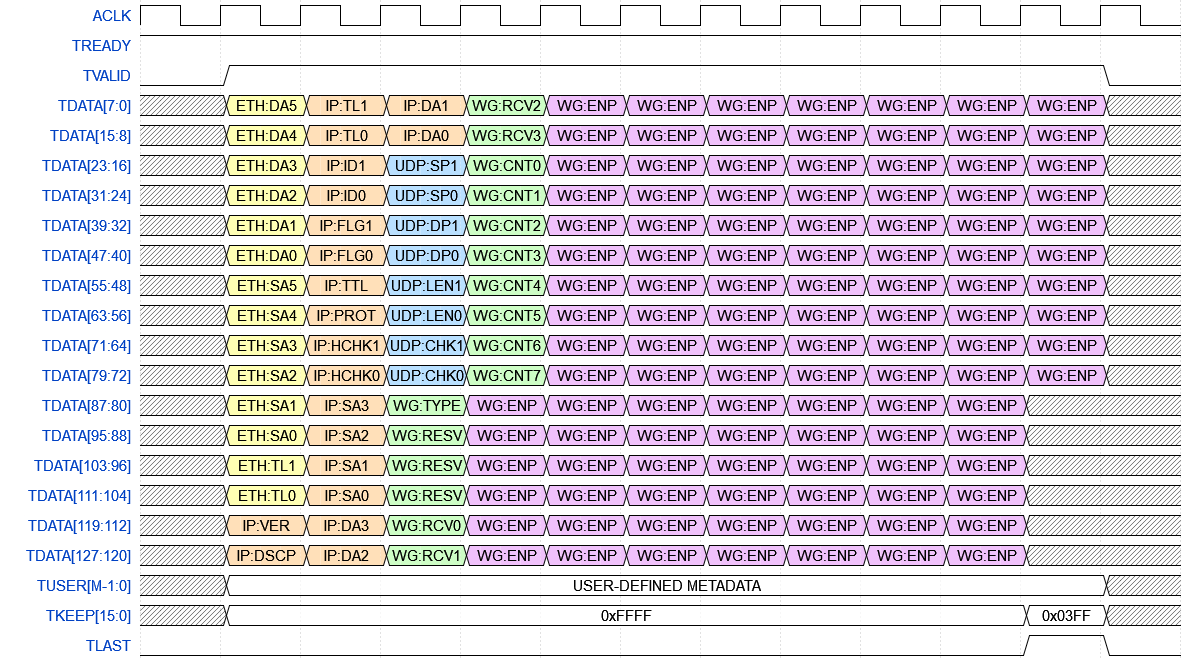
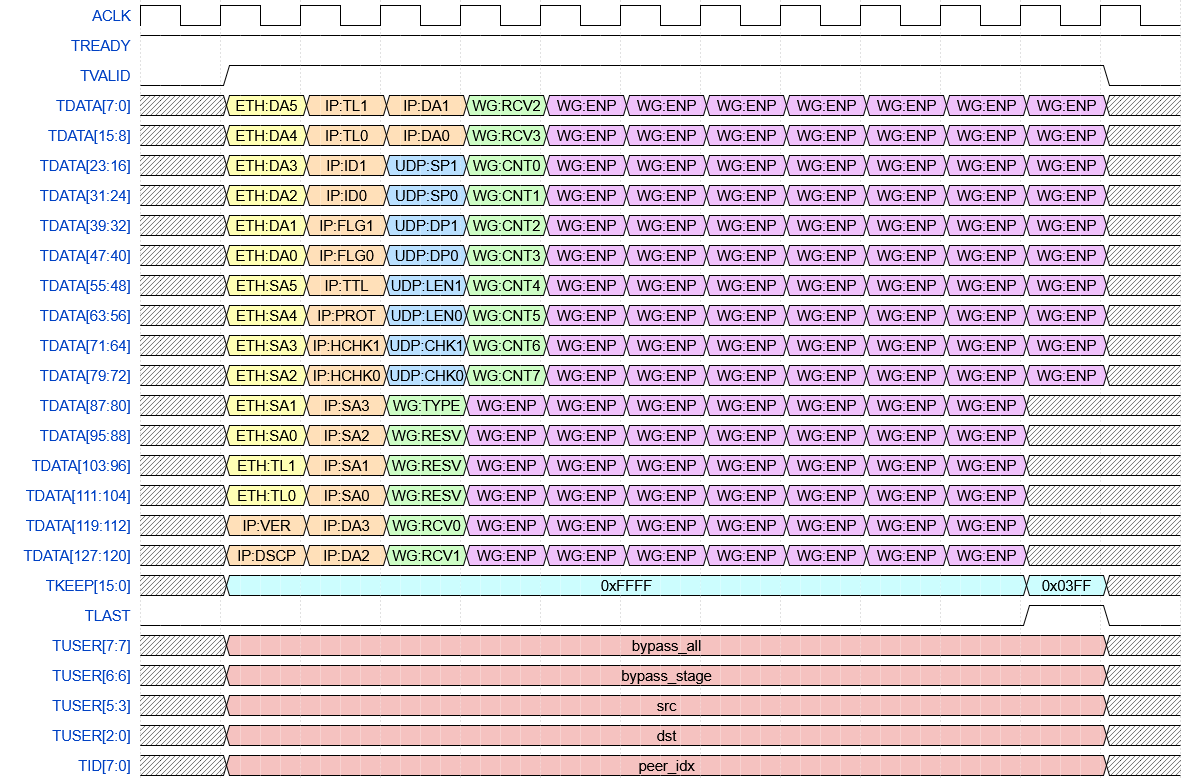
Updated docs

diff --git a/2.sw/README.md b/2.sw/README.md
@@ -1,0 +1,50 @@
+## Software Architecture and Theory of Operation
+![SWArchitecture](../0.doc/Wireguard/wireguard-fpga-muxed-Architecture-SW.webp)
+
+The conceptual class diagram provides an overview of the components in the software part of the system without delving into implementation details. The focus is on the Wireguard Agent, which implements the protocol's handshake procedures, along with the following supplementary components:
+- [Curve25519](http://cr.yp.to/ecdh.html) - an ECDH algorithm implementation for establishing a shared secret using a public-private key pair between two remote parties connected via an insecure channel, such as the Internet
+- ChaCha20-Poly1305 - an AEAD algorithm implementation for encryption and authentication of static keys and nonce values to prevent replay attacks
+- XChaCha20-Poly1305 - a XAEAD algorithm implementation for encrypting and authenticating nonce values in Cookie Replay messages to mitigate potential DoS attacks
+- [BLAKE2s](https://www.blake2.net) - an implementation of the BLAKE2s hash function for MAC authentication and keyed hashing, per [RFC7693](https://datatracker.ietf.org/doc/html/rfc7693)
+- RNG - a random number generator used to initialize the DH key generator and generate peer identifiers
+- Timer - timers for rekey, retry, and keepalive procedures
+- [HKDF](https://eprint.iacr.org/2010/264) - an implementation of the algorithm for expanding the ECDH result
+- RTC - a real-time clock used to generate the TAI64N timestamp
+- [SipHash](https://en.wikipedia.org/wiki/SipHash) - a simple non-cryptographic function used for implementing a hashtable for fast lookup of decrypted static public keys of remote peers
+- Routing DB Updater - a subsystem for maintaining the cryptokey routing table content and deploying it to the data plane via the HAL/CSR interface
+- ICMP - implementing basic ICMP protocol functions (echo request/reply, TTL exceeded, etc.)
+- CLI - a USB/UART-based command-line interface for configuring the Wireguard node (setting the local IP address, remote peer IP addresses, network addresses, keys, etc.)
+- HAL/CSR Driver - a CSR-based abstraction for DPE components with an interface for reading/writing the corresponding registers
+
+## Software Control Flow
+
+The DPE and CPU are connected through Rx and Tx FIFOs. Here, the Tx and Rx labels are relative to the DPE, not the CPU, meaning CPU → Rx FIFO → DPE and DPE → Tx FIFO → CPU. To ensure efficient communication, we maintained the same data bus width (128 bits) on both sides of the FIFO. The Rx and Tx FIFOs are mapped to the CPU by directly mapping AXIS signals to CSR. Since the CPU operates on a 32-bit data bus, all CSR registers had to be organized as 32-bit registers. Additionally, to prevent the CPU from entering Read-Modify-Write (RMW) cycles, which would reduce the interface throughput, all register fields had to be [aligned to 8 bits](https://github.com/chili-chips-ba/wireguard-fpga/issues/9).
+
+It is important to note that triggering a data transfer cycle on the AXIS interface is achieved using [single-pulse](https://peakrdl-regblock.readthedocs.io/en/latest/props/field.html#singlepulse) TVALID/TREADY signals. This frees the CPU from the requirement to synchronize the AXIS clock cycle with its instruction cycle. 
+
+Here is the process of sending a packet from the CPU to the ETH interface. The packet is divided into 16-byte segments, and for each segment:
+- The CPU reads csr.cpu_fifo.rx.status.tready; if it equals 1, it proceeds (since the FIFO is set to drop-on-full mode, tready will always be 1).
+- The CPU writes csr.cpu_fifo.rx.data_31_0.tdata.
+- The CPU writes csr.cpu_fifo.rx.data_63_32.tdata.
+- The CPU writes csr.cpu_fifo.rx.data_95_64.tdata.
+- The CPU writes csr.cpu_fifo.rx.data_127_96.tdata.
+- The CPU writes csr.cpu_fifo.rx.control.tkeep (all ones, except in the last transfer).
+- The CPU writes csr.cpu_fifo.rx.control.tlast (0, except in the last transfer).
+- The CPU writes csr.cpu_fifo.rx.control.tuser_bypass_all = 1.
+- The CPU writes csr.cpu_fifo.rx.control.tuser_dst (1 - eth1, 2 - eth2, 3 - eth3, 4 - eth4, 7 - broadcast).
+- The CPU writes csr.cpu_fifo.rx.trigger.tvalid = 1.
+- If tlast == 0, return to step (1).
+
+A similar process applies to receiving packets from the ETH interface. The CPU prepares a buffer and starts reading 16-byte segments from the Tx FIFO:
+1. The CPU reads csr.cpu_fifo.tx.status.tvalid; if it equals 1, it proceeds (if it is 0, it stops since the FIFO is set to store-and-forward mode).
+2. The CPU reads csr.cpu_fifo.tx.status.tvalid.data_31_0.tdata.
+3. The CPU reads csr.cpu_fifo.tx.status.tvalid.data_63_32.tdata.
+4. The CPU reads csr.cpu_fifo.tx.status.tvalid.data_95_64.tdata.
+5. The CPU reads csr.cpu_fifo.tx.status.tvalid.data_127_96.tdata.
+6. The CPU reads csr.cpu_fifo.tx.status.tvalid.control.tlast; if it is 1, proceed to step (7), otherwise go to step (9).
+7. The CPU reads csr.cpu_fifo.tx.status.tvalid.control.tkeep.
+8. The CPU reads csr.cpu_fifo.tx.status.tvalid.control.tuser_src.
+9. The CPU writes csr.cpu_fifo.tx.status.tvalid.trigger.tready = 1.
+10. If tlast == 0, return to step (1).
+
+If we assume that each step takes 1-2 instructions on average (1.5 on average) and that each instruction requires 4 clock cycles, we can estimate the throughput: 80 MHz × 128 bits ÷ (10 steps × 1.5 instructions × 4 cycles per instruction) = 170 Mbps. Clearly, this CSR-based FIFO interface cannot be used to implement a 1G datapath through the CPU, but since the CPU will only process WireGuard handshake messages, this will be more than sufficient.

diff --git a/README.md b/README.md
@@ -170,7 +170,7 @@ The objective of this optional deliverable is to ensure stable and efficient lin
 
 # Design Blueprint (WIP)
 ## HW/SW Partitioning
-Since the Wireguard node essentially functions as an IP router with Wireguard protocol support, we have decided to design the system according to a two-layer architecture: a control plane responsible for managing IP routing processes and executing the Wireguard protocol (managing remote peers, sessions, and keys), and a data plane that will perform IP routing and cryptography processes at wire speed. The control plane will be implemented as software running on a soft CPU, while the data plane will be fully realized in RTL on an FPGA.
+Since the Wireguard node essentially functions as an IP router with Wireguard protocol support, we have decided to design the system according to a two-layer architecture: a control plane responsible for managing IP routing processes and executing the Wireguard protocol (managing remote peers, sessions, and keys), and a data plane that will perform IP routing and cryptography processes at wire speed. The control plane will be implemented as software running on a soft CPU, while the data plane will be fully implemented in RTL on an FPGA.
 
 ![HWSWPartitioning](./0.doc/Wireguard/wireguard-fpga-muxed-Architecture-HW-SW-Partitioning.webp)
 
@@ -183,7 +183,7 @@ The hardware architecture essentially follows the HW/SW partitioning and consist
 
 The soft CPU is equipped with a Boot ROM and a DDR3 SDRAM controller for interfacing with off-chip memory. External memory is exclusively used for control plane processes and does not store packets. The connection between the control and data planes is established through a CSR-based HAL.
 
-The data plane consists of several IP cores, which are listed and explained in the direction of network traffic propagation:
+The data plane consists of several IP cores, including data plane engine (DPE) and supporting components, which are listed and explained in the direction of network traffic propagation:
 - _PHY Controller_ - initial configuration of Realtek PHYs and monitoring link activity (link up/down events)
 - _1G MAC_ - execution of the 1G Ethernet protocol (framing, flow control, FCS, etc.)
 - _Rx FIFOs_ - clock domain crossing, bus width conversion, and store & forward packet handling
@@ -218,6 +218,8 @@ The conceptual class diagram provides an overview of the components in the softw
 - ICMP - implementing basic ICMP protocol functions (echo request/reply, TTL exceeded, etc.)
 - CLI - a USB/UART-based command-line interface for configuring the Wireguard node (setting the local IP address, remote peer IP addresses, network addresses, keys, etc.)
 - HAL/CSR Driver - a CSR-based abstraction for data plane components with an interface for reading/writing the corresponding registers
+
+The details of software architecture can be found in the [README.md](./1.sw/README.md) in the `1.sw/` directory.
 
 ## HW/SW Working Together as a Coherent System
 To illustrate the operation of the system as a whole, we have prepared a step-by-step analysis of packets processing based on the capture of real WireGuard traffic. The experimental topology consists of four nodes:

diff --git a/1.hw/README.md b/1.hw/README.md
@@ -15,7 +15,13 @@ Although the Data Plane Engine (green domain) transfers packets at approximately
 
 ![ExampleToplogy](../0.doc/Wireguard/wireguard-fpga-muxed-Interfaces.webp)
 
-The cores within the DPE transmit packets via the AXI4-Stream interface. Although data transfer on the TDATA bus is organized as little-endian, it is important to note that the internal organization of fields within the headers of Ethernet, IP, and UDP protocols follows big-endian format (also known as network byte order). On the other hand, the fields within the headers of the Wireguard protocol are transmitted in little-endian format.
+The cores within the DPE transmit packets via the AXI4-Stream interface with standard signals (TREADY, TVALID, TDATA, TKEEP, TLAST, TUSER, and TID). Although data transfer on the TDATA bus is organized as little-endian, it is important to note that the internal organization of fields within the headers of Ethernet, IP, and UDP protocols follows big-endian format (also known as network byte order). On the other hand, the fields within the headers of the Wireguard protocol are transmitted in little-endian format. In this setup, TUSER is used to carry instructions for internal packet routing:
+- TUSER\[7:7\] = bypass_all – Instructs that the packet should not be routed through the DPE but sent directly to the ETH interface or the CPU (and vice versa).
+- TUSER\[6:6\] = bypass_stage – Instructs the packet to skip the next stage within the DPE (used internally within the DPE).
+- TUSER\[5:3\] = src – Internal source address of the packet (0 - CPU, 1 - eth1, 2 - eth2, 3 - eth3, 4 - eth4).
+- TUSER\[2:0\] = dst – Internal destination address of the packet (0 - CPU, 1 - eth1, 2 - eth2, 3 - eth3, 4 - eth4, 7 - broadcast).
+
+TID\[7:0\] will be used internally within the DPE to carry the peer index (a result of the peer table lookup).
 
 ![ExampleToplogy](../0.doc/Wireguard/hw_st_if_packet_data.png)
 
